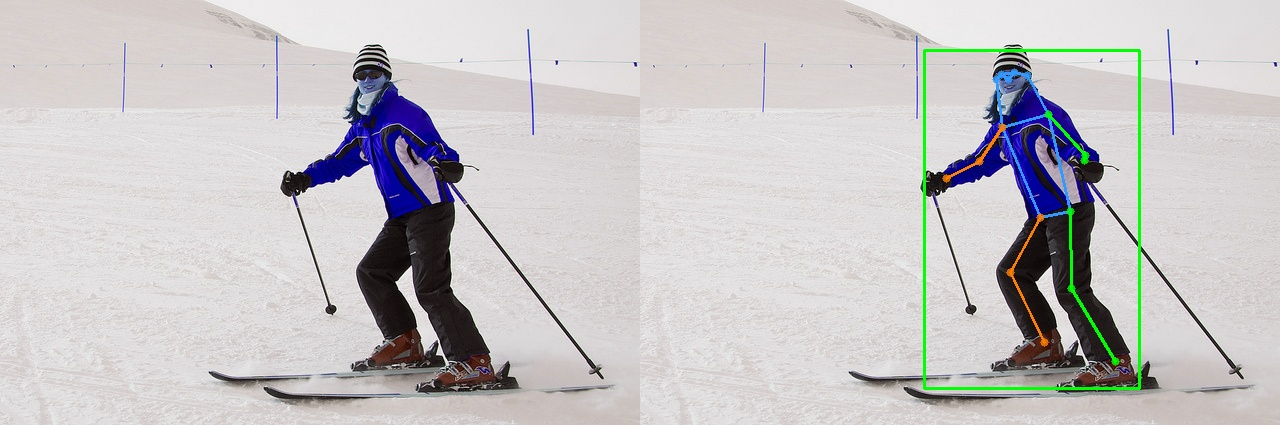
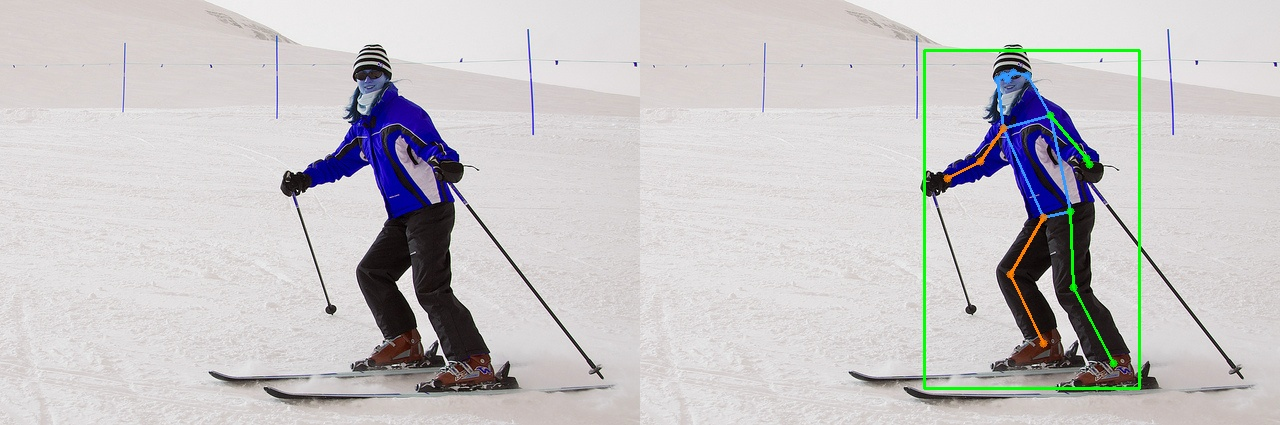
The config system has been improved

diff --git a/data/source/PoseEstimator.py b/data/source/PoseEstimator.py
@@ -29,18 +29,15 @@ class PoseEstimator():
         """
         self.config_file = ''
         self.checkpoint_file = ''
+        self.det_config_file = ''
+        self.det_checkpoint_file = ''
+
         self.method = method.lower()
         self.pose_model = None
         self.visualizer = None
         self.det_model = None
         
         self.download_configs()
-
-        self.config_file = '../configs/rtmpose-m_8xb256-420e_coco-256x192.py'
-        self.checkpoint_file = '../configs/rtmpose-m_simcc-coco_pt-aic-coco_420e-256x192-d8dd5ca4_20230127.pth'
-        self.det_config_file = '../configs/faster-rcnn_r50_fpn_1x_coco.py'
-        self.det_checkpoint_file = '../configs/faster_rcnn_r50_fpn_1x_coco_20200130-047c8118.pth'
-
         self.init_model()
     
     def process(
@@ -225,6 +222,8 @@ class PoseEstimator():
                 skeleton_style='mmpose'
             )
 
+            print(self.det_checkpoint_file)
+
             self.det_model = init_detector(
                 self.det_config_file,
                 self.det_checkpoint_file,
@@ -240,29 +239,29 @@ class PoseEstimator():
             configs_dir = Path("../configs")
             configs_dir.mkdir(parents=True, exist_ok=True)
 
-            bottomup_config = configs_dir / "ae_hrnet-w32_8xb24-300e_coco-512x512.py"
-            topdown_config = configs_dir / "td-hm_hrnet-w32_8xb64-210e_coco-256x192.py"
+            configs = [
+                ["mmpose", "ae_hrnet-w32_8xb24-300e_coco-512x512.py"],
+                ["mmpose", "td-hm_hrnet-w32_8xb64-210e_coco-256x192.py"],
+                ["mmdet", "faster-rcnn_r50_fpn_1x_coco.py"]
+            ]
 
-            if not bottomup_config.exists():
-                subprocess.run([
-                    "mim", "download", "mmpose",
-                    "--config", "ae_hrnet-w32_8xb24-300e_coco-512x512",
-                    "--dest", str(configs_dir)
-                ], check=True)
-
-            if not topdown_config.exists():
-                subprocess.run([
-                    "mim", "download", "mmpose",
-                    "--config", "td-hm_hrnet-w32_8xb64-210e_coco-256x192",
-                    "--dest", str(configs_dir)
-                ], check=True)
+            for lib, config in configs:
+                if not (configs_dir / config).exists():
+                    subprocess.run([
+                        "mim", "download", lib,
+                        "--config", config[:-3],
+                        "--dest", str(configs_dir)
+                    ], check=True)
 
             if self.method == 'bottomup':
-                self.config_file = '../configs/ae_hrnet-w32_8xb24-300e_coco-512x512.py'
-                self.checkpoint_file = '../configs/hrnet_w32_coco_512x512-bcb8c247_20200816.pth'
+                self.config_file = str(configs_dir) + "/ae_hrnet-w32_8xb24-300e_coco-512x512.py"
+                self.checkpoint_file = str(configs_dir) + "/hrnet_w32_coco_512x512-bcb8c247_20200816.pth"
             else:
-                self.config_file = '../configs/td-hm_hrnet-w32_8xb64-210e_coco-256x192.py'
-                self.checkpoint_file = '../configs/td-hm_hrnet-w32_8xb64-210e_coco-256x192-81c58e40_20220909.pth'
+                self.config_file = str(configs_dir) + "/td-hm_hrnet-w32_8xb64-210e_coco-256x192.py"
+                self.checkpoint_file = str(configs_dir) + "/td-hm_hrnet-w32_8xb64-210e_coco-256x192-81c58e40_20220909.pth"
+
+            self.det_config_file = str(configs_dir) + "/faster-rcnn_r50_fpn_1x_coco.py"
+            self.det_checkpoint_file = str(configs_dir) + "/faster_rcnn_r50_fpn_1x_coco_20200130-047c8118.pth"
 
         except Exception as e:
             print(f"Error: {e}")
